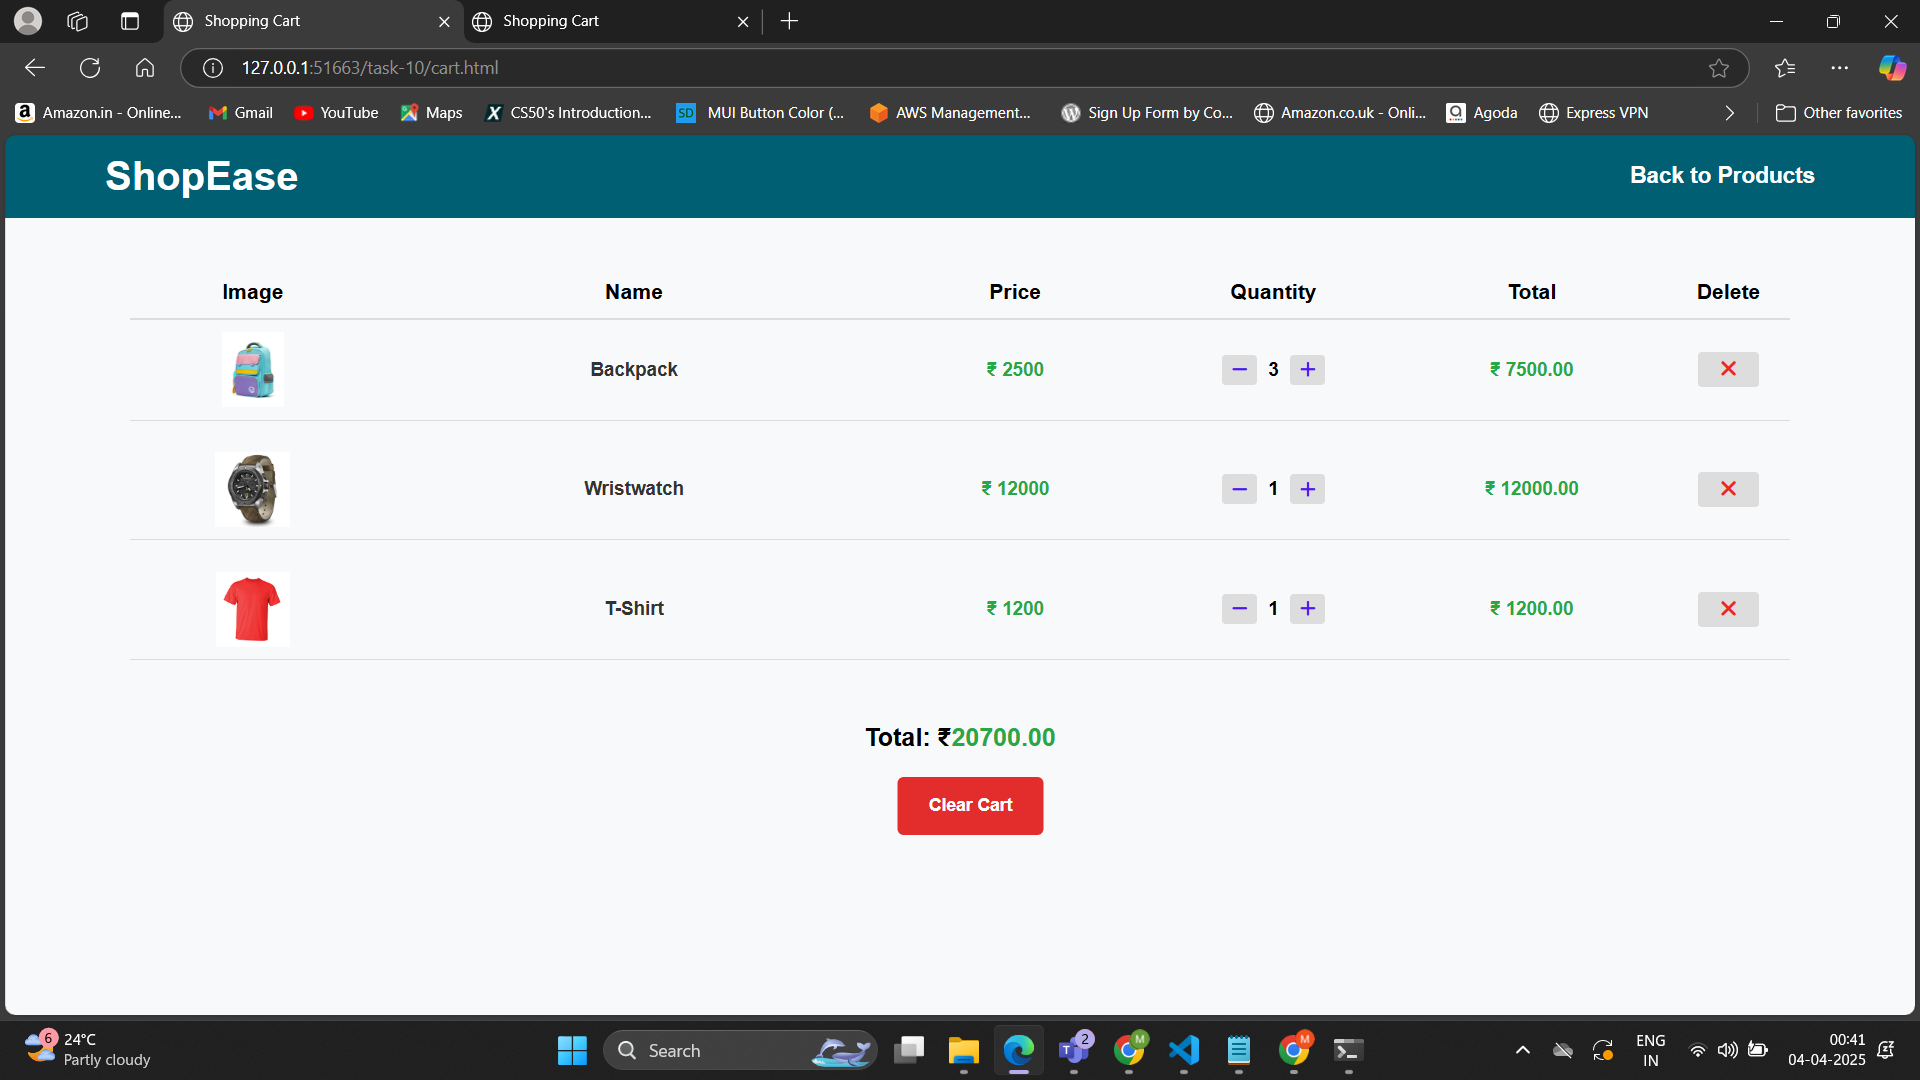
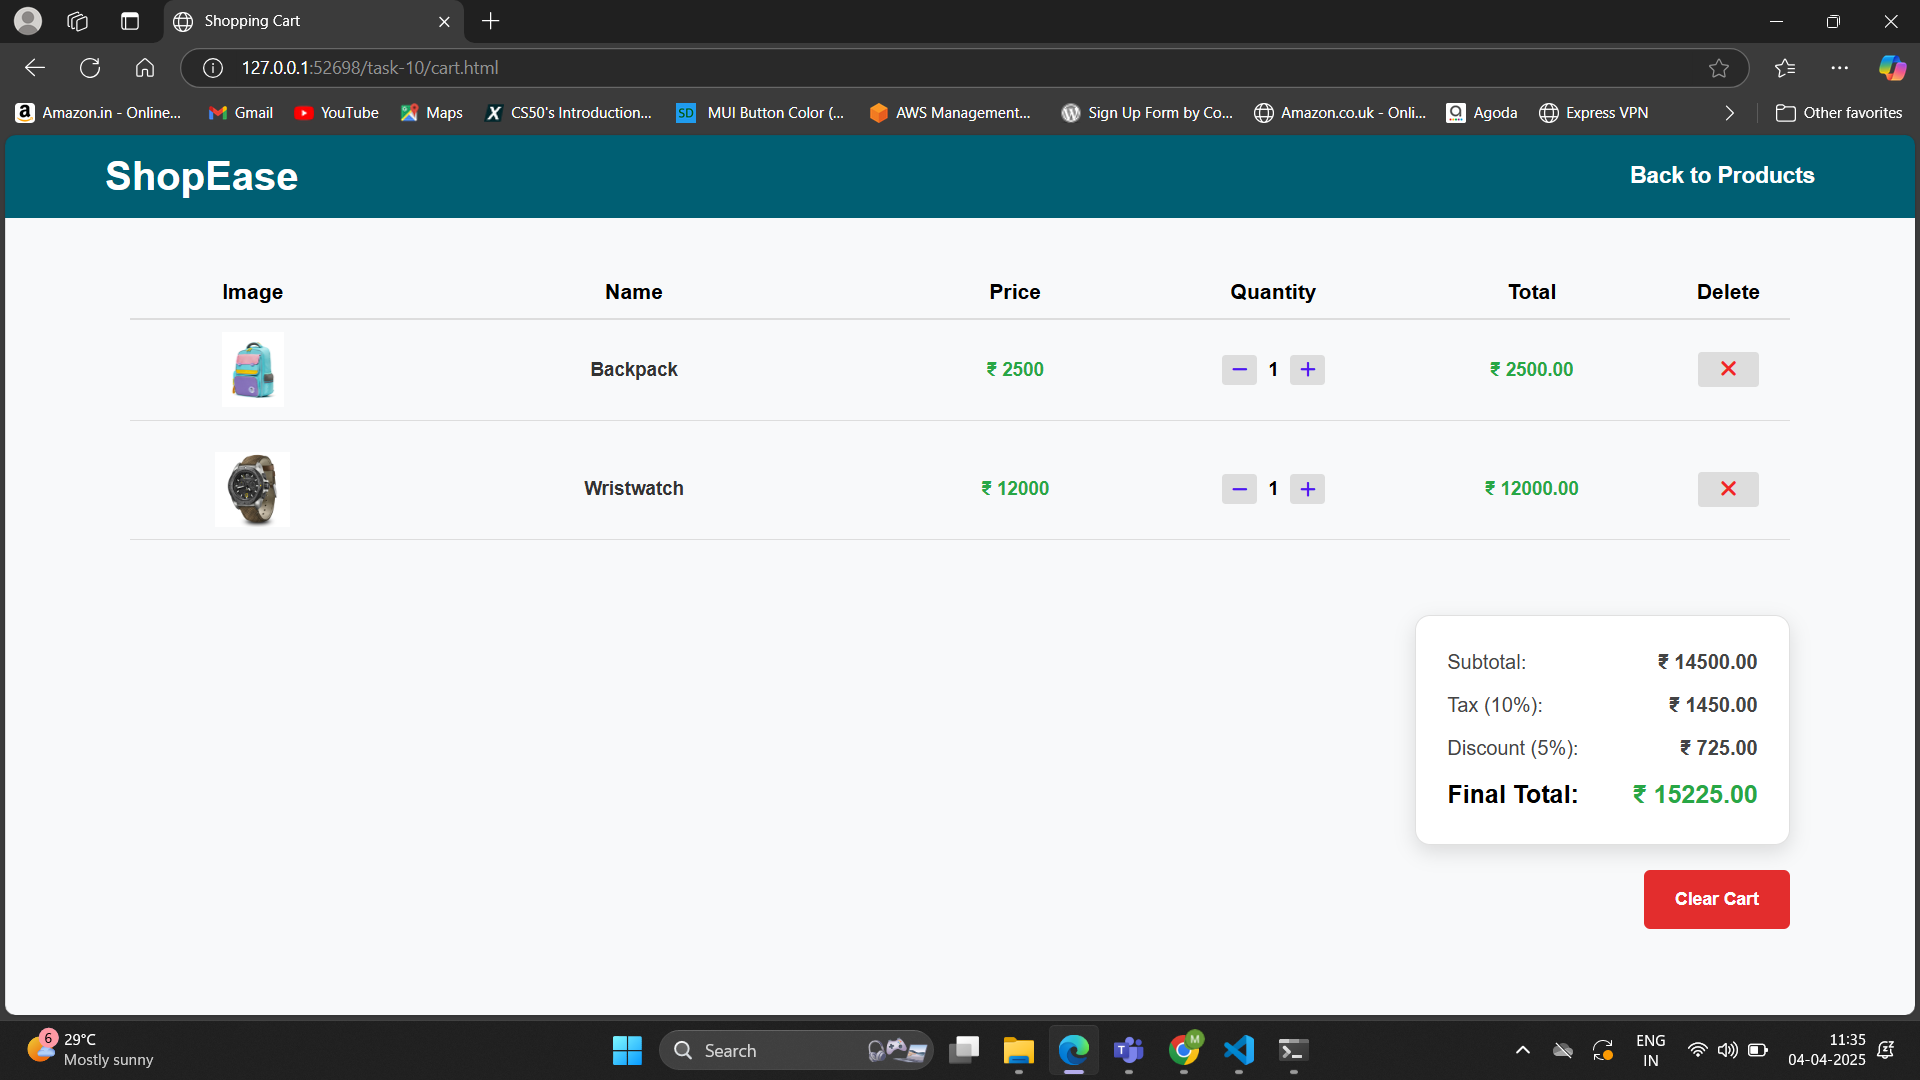
Add tax and discount calculation

diff --git a/task-10/script.js b/task-10/script.js
@@ -1,4 +1,3 @@
-// Global Variables
 let productsData = [];
 let cart = JSON.parse(localStorage.getItem("cart")) || [];
 let currentCategory = "all";
@@ -118,14 +117,23 @@ function updateCartCount() {
 function displayCart() {
     const container = document.getElementById("cart-container");
     const totalPriceElement = document.getElementById("total-price");
+    const taxElement = document.getElementById("tax-amount");
+    const discountElement = document.getElementById("discount-amount");
+    const finalPriceElement = document.getElementById("final-price");
+    const totalContainer = document.querySelector(".cart-total-container");
 
     if (!container) return;
 
     if (cart.length === 0) {
         container.innerHTML = "<p class='text-center text-gray-600 text-lg'>Your cart is empty.</p>";
-        totalPriceElement.innerText = "0.00";
+        totalContainer.style.display = "none";
         return;
     }
+
+    let subtotal = cart.reduce((total, item) => total + item.price * item.quantity, 0);
+    let tax = subtotal * 0.10; // 10% tax
+    let discount = subtotal > 500 ? subtotal * 0.05 : 0; // 5% discount if subtotal > 500
+    let finalTotal = subtotal + tax - discount;
 
     container.innerHTML = `
         <div class="cart-header">
@@ -154,7 +162,10 @@ function displayCart() {
         </div>
     `;
 
-    totalPriceElement.innerText = cart.reduce((total, item) => total + item.price * item.quantity, 0).toFixed(2);
+    totalPriceElement.innerText = "₹ "+subtotal.toFixed(2);
+    taxElement.innerText = "₹ "+tax.toFixed(2);
+    discountElement.innerText = "₹ "+discount.toFixed(2);
+    finalPriceElement.innerText = "₹ "+finalTotal.toFixed(2);
 }
 
 // Modify quantity (increment or decrement)

diff --git a/task-10/styles.css b/task-10/styles.css
@@ -270,21 +270,52 @@ aside li.active {
   text-align: center;
 }
 
-.cart-total {
-  text-align: center;
-  font-size: 20px;
-  font-weight: bold;
-  margin-bottom: 20px;
+/* Cart Total Container */
+.cart-total-container {
+  display: flex;
+  flex-direction: column;
+  align-items: flex-end;
+  width: 100%;
+  max-width: 300px;
+  margin: 10px 100px 20px auto;
+  padding: 20px 25px;
+  background: #ffffff;
+  border-radius: 12px;
+  box-shadow: 0 6px 16px rgba(0, 0, 0, 0.12);
+  border: 1px solid #e0e0e0;
 }
 
-.cart-total span{
+.cart-total-container p {
+  font-size: 16px;
+  font-weight: 500;
+  margin: 8px 0;
+  color: #444;
+  width: 100%;
+  display: flex;
+  justify-content: space-between;
+}
+
+.cart-total-container p span {
+  font-weight: 600;
+}
+
+.cart-total-container p strong {
+  font-size: 20px;
+  color: #000;
+  font-weight: 700;
+  width: 100%;
+  display: flex;
+  justify-content: space-between;
+}
+
+.cart-total-container p strong span{
     color: #28a745;
 }
 
 .clear-cart-btn {
+  display: block;
   text-align: center;
-  margin-left: 50%;
-  transform: translateX(-50px);
+  margin: 20px 100px 0px auto;
   padding: 15px 25px;
   font-size: 14px;
   font-weight: bold;

diff --git a/task-10/cart.html b/task-10/cart.html
@@ -15,9 +15,14 @@
 
     <div id="cart-container"></div>
 
-    <p class="cart-total">Total:  ₹<span id="total-price">0.00</span></p>
-    <button onclick="clearCart()" class="clear-cart-btn">Clear Cart</button>
+    <div class="cart-total-container">
+        <p>Subtotal:  <span id="total-price">0.00</span></p>
+        <p>Tax (10%):  <span id="tax-amount">0.00</span></p>
+        <p>Discount (5%):  <span id="discount-amount">0.00</span></p>
+        <p><strong>Final Total: <span id="final-price">0.00</span></strong></p>
+    </div>
 
+    <button onclick="clearCart()" class="clear-cart-btn">Clear Cart</button>
 
     <script src="script.js"></script>
 </body>
